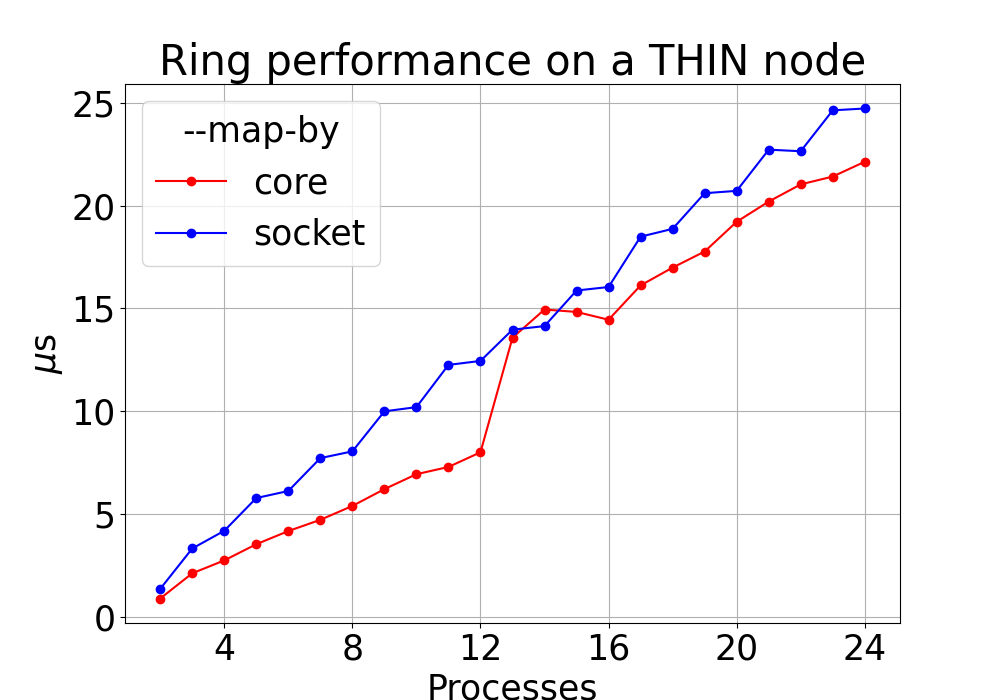
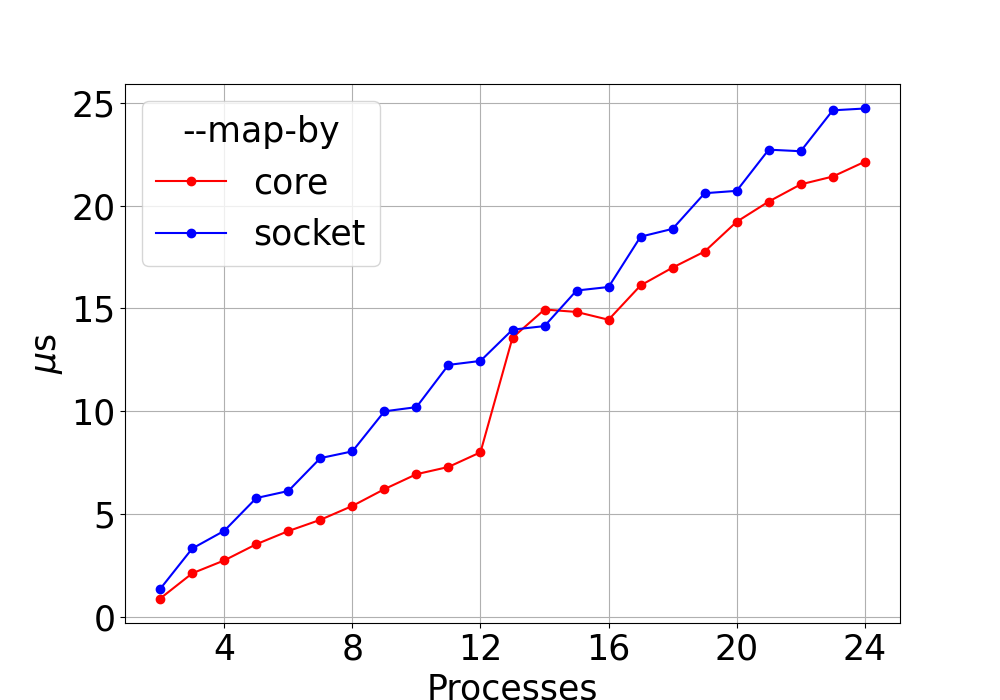
matrix paragraph. remove title from image

Changed region(s): [[0.155, 0.06, 0.868, 0.12]]

diff --git a/assignment1/Report.tex b/assignment1/Report.tex
@@ -34,6 +34,29 @@ The time is taken for two values of \texttt{--map-by}, namely \texttt{core} and 
 As you can see in the figure, the time taken by the \texttt{--map-by socket} case increases significantly only when the number of processors increases by 2, and is therefore slightly non-linear. For instance, when $P=7$ and $P=8$ the script takes $\sim$ 7.5 $\mu$s, but when $P=9$ it takes $\sim$10 $\mu$s. This is due to the fact that the mapping we chose for this case maps a process to \texttt{socket0} or \texttt{socket1} depending on its \texttt{rank}. Therefore the communication between \texttt{rank0} and \texttt{rankP-1} becomes more costly (i.e. involves two different sockets) when two processes are introduced; otherwise the new communication channel is quite cheap with respect to the other communications, since it occurs within the same socket.
 
 \subsection{Matrix-Matrix addition}
+The original formulation of this exercise led to a very inefficient solution for the following reason: processing rectangular sub-blocks taken from the matrix in each process required a copy in the general case, since in most cases it is not possible to have the required cells in a contiguous array (\texttt{MPI\_Scatterv} allows to increase slightly the number of treatable cases, but still does not solve the general problem). For this reason a copy before calling \texttt{MPI\_Scatter} and after calling \texttt{MPI\_Gather} is needed, thus annihilating the computational time we saved introducing MPI in the equation.
+
+For this reason we dropped the comparison of different 1D/2D/3D topologies, and studied the \emph{strong scalability} of the summation of two 3D matrices with $P$ processes. We use \texttt{MPI\_Scatter} to send $P$ slices of size $N/P$, one for each process. Note that those slices are not blocks in the sense designated in the assignment statement: in a 3D space we could visualize them as faces of the cube (moving along the first axis). These faces may not be complete, and more than one face may be sent to each process depending on $P$ and $N$.
+
+\textbf{Note}: I also implemented a solution for the problem which follows closely the original statement of the problem, and am able to produce it in a matter of minutes if requested.
+
+\subsection{Experimental results}
+\begin{figure}[b!]
+    \centering
+    \includegraphics[width=\textwidth]{matrix/time.png}
+    \caption{Time measured for the addition of two 3D matrices (size $2400\times 100\times 100$). In the image we highlighted the incidence of communication time on the total time (black dotted line). The straight line at 0.05 seconds is the time it took to run the serial version of the addition (no communication).}
+    \label{fig:matrix_performance}
+\end{figure}
+
+We may approximate the total time taken by the parallel implementation of the 3D matrices addition in the following way (keeping the size of the matrix fixed at $2400\times 100\times 100$):
+\begin{gather}\label{eq:matrix_time_equation}
+    T(P) = T_s(P) + T_\text{add}(P) + T_g(P)
+\end{gather}
+Where $T_s(P), T_g(P)$ are respectively the time taken by \texttt{MPI\_Scatter} and \texttt{MPI\_Gather} on $P$ processors, while $T_\text{add}(P)$ is the time taken by the summation of the portion of matrix sent to one of the $P$ processors (which may be considered approximately equal for all the processors). Obviously $T_s(1) = T_g(1) = 0$.
+
+In Figure \ref{fig:matrix_performance} we show the contribution of each component to the total time (red dotted line). $T_\text{add}$ is the vertical distance in the plot between the total time and the communication time (black dotted line). As you can see $T_\text{add}$ is the smallest contribution, and is monotonically decreasing as expected.
+
+By contrast, $T_s$ behaves in an unexpected way. It would make sense that the time taken by the two calls to \texttt{MPI\_Scatter} (one for each matrix to sum) increases linearly on the number of processes. However this is not the case in the left region of the plot, while we have an approximately linear relation in the right part. This probably happens due to the fact that \texttt{MPI\_Scatter} behaves in different ways depending on the number of processes and on the size of the message to send. In some cases \texttt{MPI\_Scatter} builds a binomial tree (having the root process as its root) and delegates to its child a reduced amount of work.
 
 \section{Measure MPI point to point performance}
 In this section we briefly disucss and present the results obtained with the \emph{PingPong} benchmark on Orfeo. The banchmark has been ran on multiple kind of nodes and networks, and against different implementations of MPI. Due to the variability that is usually experienced in two consecutive runs of the benchmark we repeated each experiment 1000 times, and averaged the results for element-wise.
